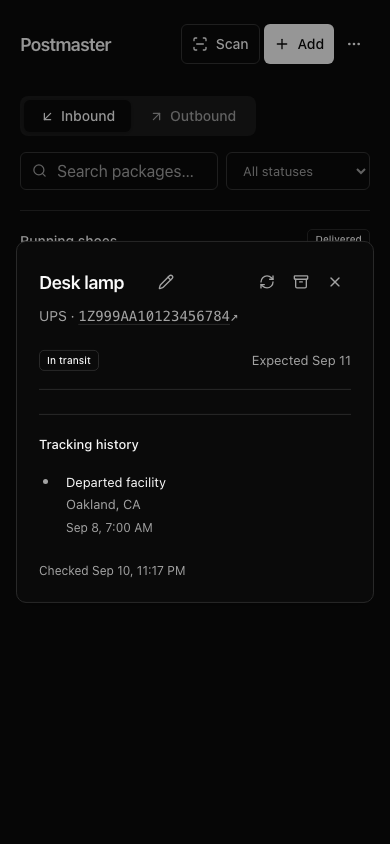
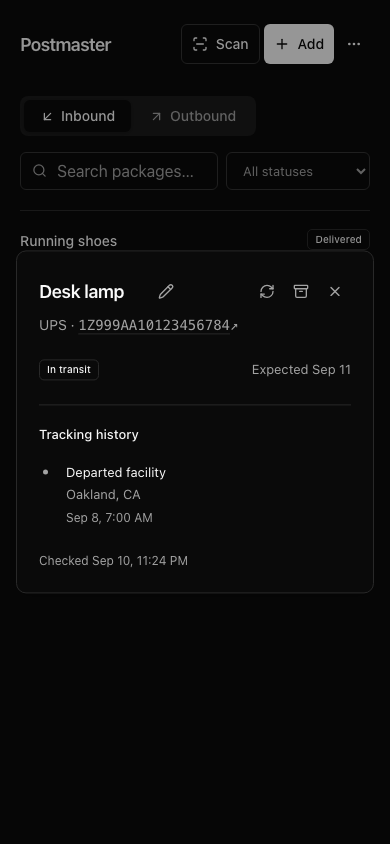
Remove redundant package detail divider

diff --git a/web/src/styles.css b/web/src/styles.css
@@ -362,8 +362,6 @@
   justify-content: space-between;
   gap: 12px;
   font-size: 13px;
-  padding-bottom: 18px;
-  border-bottom: 1px solid var(--border);
 }
 .detail-fields {
   display: flex;
